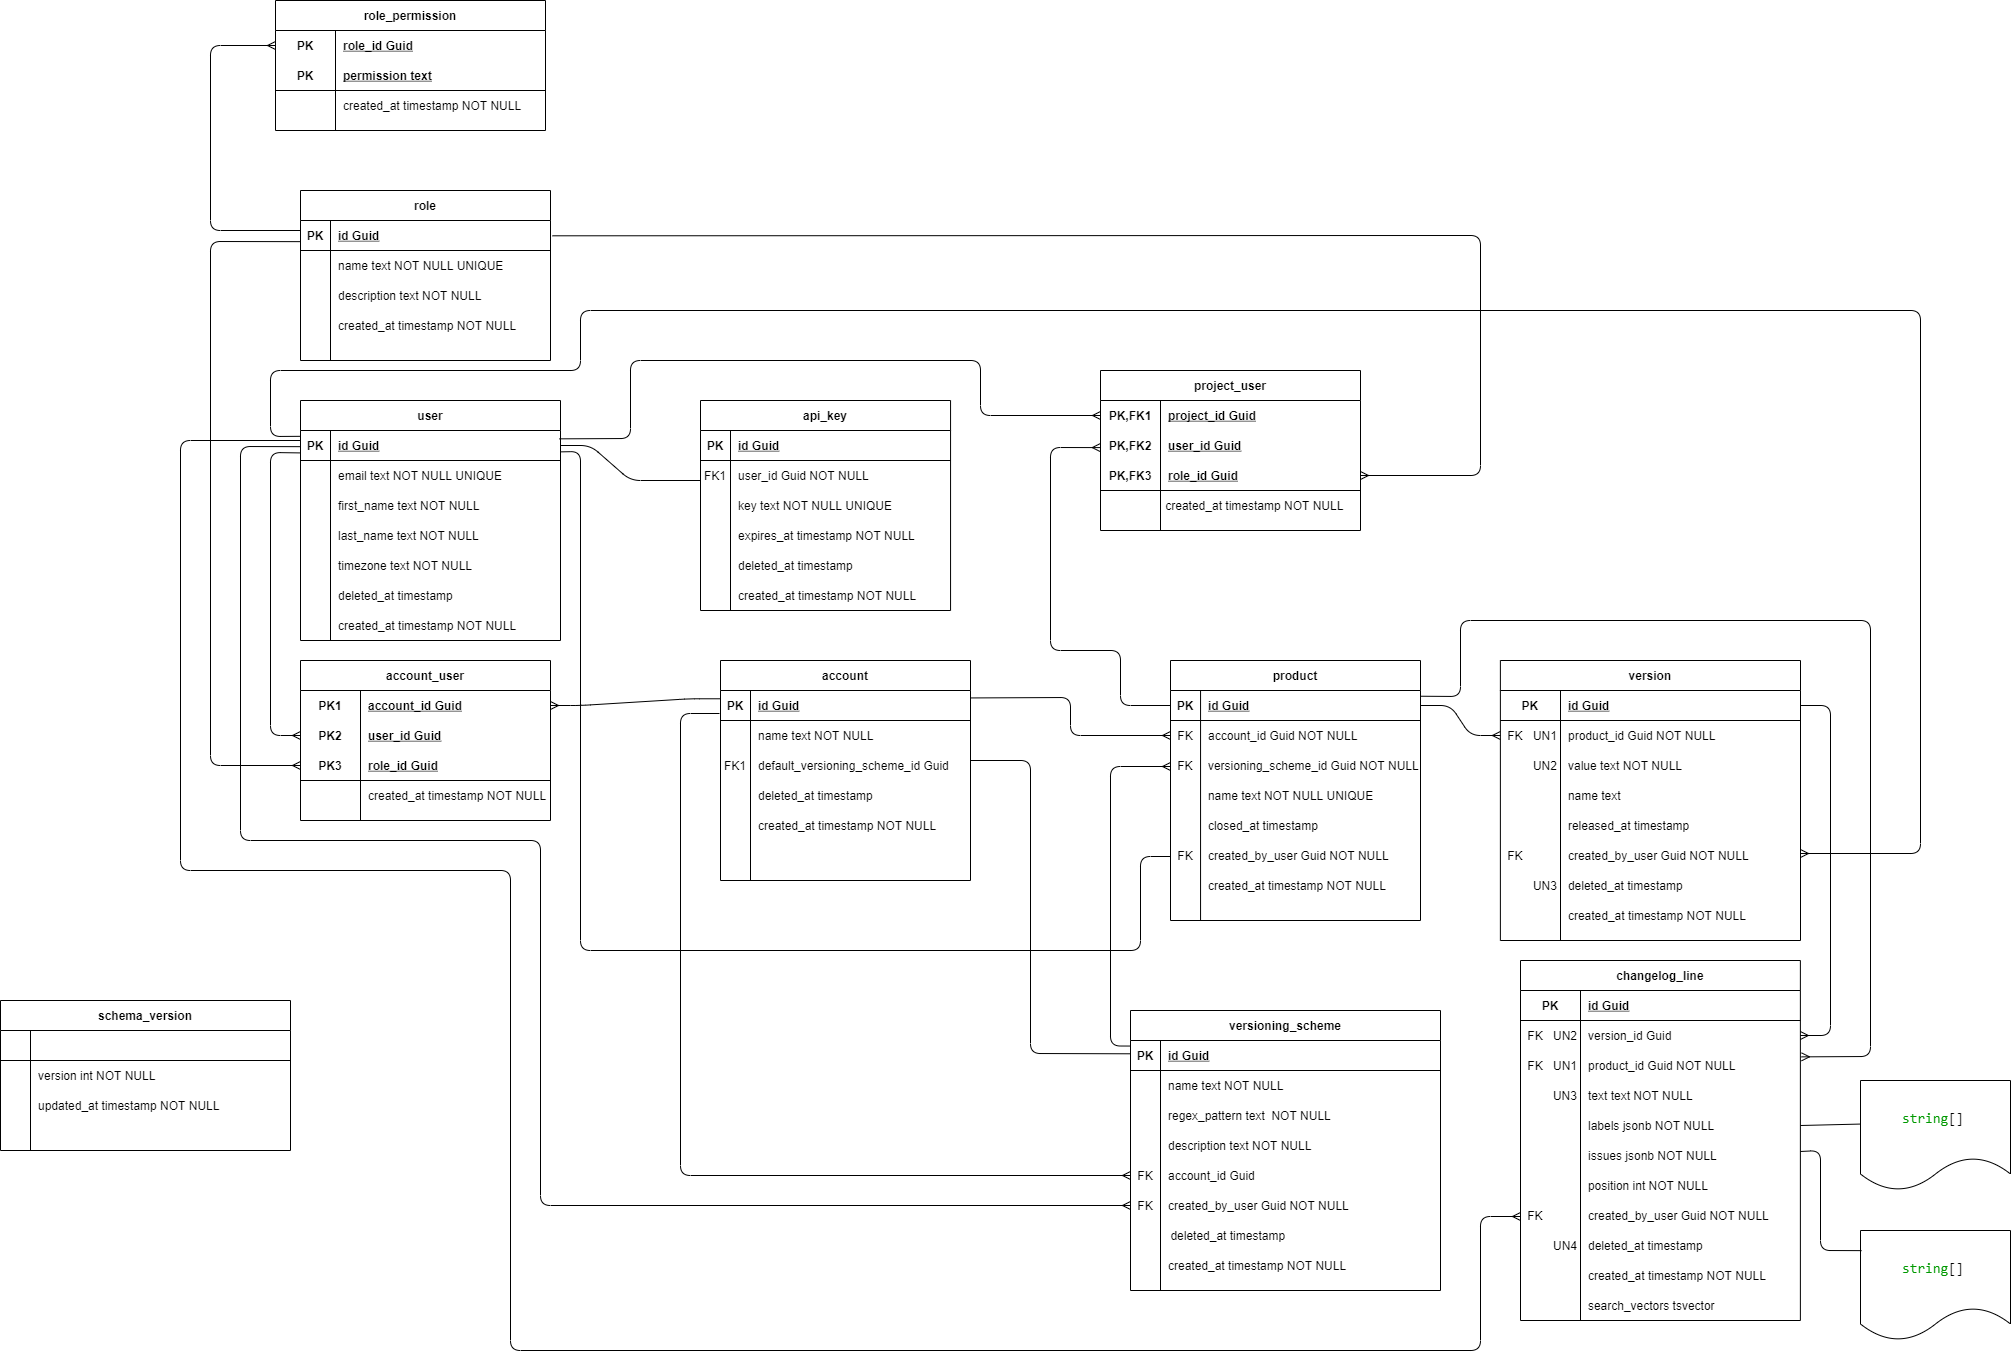
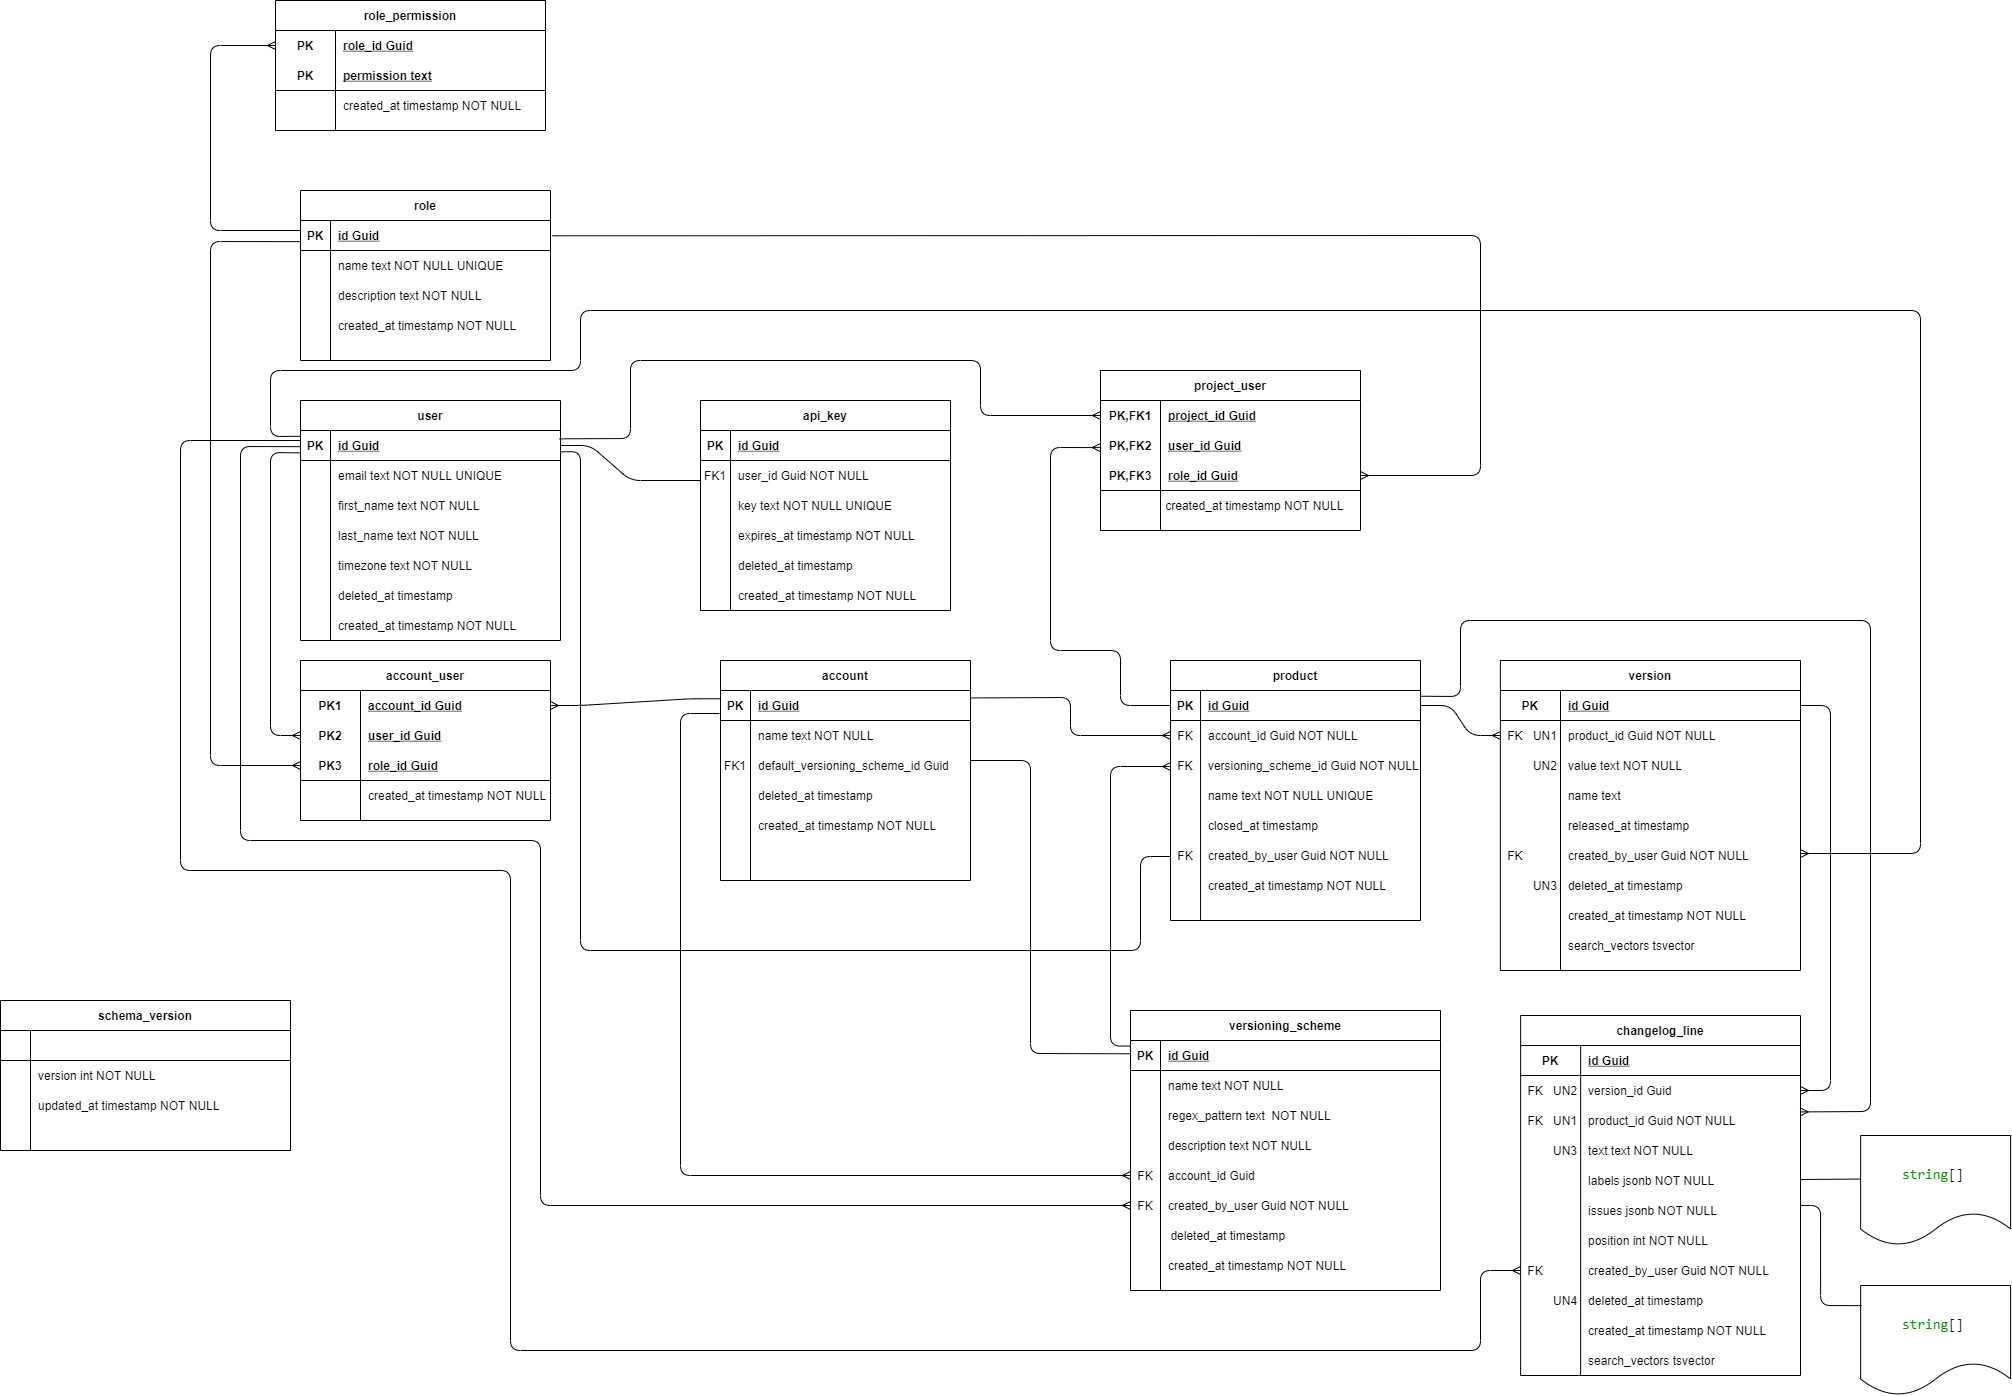
extend text search on version table

diff --git a/src/ChangeTracker.DataAccess.Postgres/DataAccessObjects/Version/SearchVersionQueryBuilder.cs b/src/ChangeTracker.DataAccess.Postgres/DataAccessObjects/Version/SearchVersionQueryBuilder.cs
@@ -6,8 +6,7 @@ namespace ChangeTracker.DataAccess.Postgres.DataAccessObjects.Version
 {
     public class SearchVersionQueryBuilder
     {
-        private readonly List<string> _versionPredicates = new();
-        private readonly List<string> _changeLogPredicates = new();
+        private readonly List<string> _predicates = new();
         private readonly Dictionary<string, object> _parameters = new();
 
         public SearchVersionQueryBuilder(Guid productId)
@@ -22,8 +21,8 @@ namespace ChangeTracker.DataAccess.Postgres.DataAccessObjects.Version
         {
             if (!lastVersionId.HasValue || lastVersionId.Value == Guid.Empty)
                 return this;
-            
-            _versionPredicates.Add("(v.created_at, v.id) < ((select vs.created_at from version vs where vs.id = @lastVersionId), @lastVersionId)");
+
+            _predicates.Add("(v.created_at, v.id) < ((select vs.created_at from version vs where vs.id = @lastVersionId), @lastVersionId)");
             _parameters.Add("lastVersionId", lastVersionId.Value);
 
             return this;
@@ -31,7 +30,7 @@ namespace ChangeTracker.DataAccess.Postgres.DataAccessObjects.Version
 
         public SearchVersionQueryBuilder ExcludeDeletedVersions()
         {
-            _versionPredicates.Add("v.deleted_at is null");
+            _predicates.Add("v.deleted_at is null");
             return this;
         }
 
@@ -41,24 +40,28 @@ namespace ChangeTracker.DataAccess.Postgres.DataAccessObjects.Version
                 return this;
 
             var trimmedSearchTerm = searchTerm.Trim();
-            if (trimmedSearchTerm.Contains(" "))
-                return this;
-            
-            _changeLogPredicates.Add("chl.search_vectors @@ to_tsquery(trim(@searchTerm))");
-            _parameters.Add("searchTerm", searchTerm);
+            var finalSearchTerm = trimmedSearchTerm.Contains(" ")
+                ? string.Join(" & ", trimmedSearchTerm.Split(" "))
+                : trimmedSearchTerm;
+
+            _predicates.Add(@"
+                  (exists(SELECT NULL
+                             FROM changelog_line chl
+                             where chl.product_id = v.product_id
+                               and chl.version_id = v.id
+                               and chl.deleted_at is null
+                               and chl.search_vectors @@ to_tsquery(trim(@searchTerm))
+                      ) or v.search_vectors @@ to_tsquery(trim(@searchTerm)))");
+            _parameters.Add("searchTerm", finalSearchTerm);
             return this;
         }
 
         public (string, IReadOnlyDictionary<string, object>) Build(ushort limit)
         {
-            var versionPredicates = _versionPredicates.Any()
-                ? $"and {string.Join(" and ", _versionPredicates)}"
+            var predicates = _predicates.Any()
+                ? $"and {string.Join(" and ", _predicates)}"
                 : string.Empty;
 
-            var changeLogLinePredicates = _changeLogPredicates.Any()
-                ? $"and {string.Join(" and ", _changeLogPredicates)}"
-                : string.Empty;
-            
             var query = $@"
                 select v.id,
                        v.product_id      as productId,
@@ -70,14 +73,7 @@ namespace ChangeTracker.DataAccess.Postgres.DataAccessObjects.Version
                        v.deleted_at      as deletedAt
                 from version v
                 where v.product_id = @productId
-                  {versionPredicates}
-                  and exists(SELECT NULL
-                             FROM changelog_line chl
-                             where chl.product_id = v.product_id
-                               and chl.version_id = v.id
-                               and chl.deleted_at is null
-                               {changeLogLinePredicates}
-                      )
+                  {predicates}
                 order by v.created_at desc
                     fetch first (@limit) rows only";
 

diff --git a/src/ChangeTracker.Api/Controllers/v1/ProductController.cs b/src/ChangeTracker.Api/Controllers/v1/ProductController.cs
@@ -86,9 +86,6 @@ namespace ChangeTracker.Api.Controllers.v1
             bool includeDeleted = false,
             ushort limit = VersionsQueryRequestModel.MaxLimit)
         {
-            if (searchTerm is not null && searchTerm.Trim().Contains(" "))
-                return BadRequest(DefaultResponse.Create("Whitespaces in search terms are not allowed."));
-
             var userId = HttpContext.GetUserId();
             var requestModel = new VersionsQueryRequestModel(productId,
                 lastVersionId,

diff --git a/src/ChangeTracker.DataAccess.Postgres/SchemaVersion.cs b/src/ChangeTracker.DataAccess.Postgres/SchemaVersion.cs
@@ -17,7 +17,7 @@ namespace ChangeTracker.DataAccess.Postgres
             _logger = logger;
         }
 
-        private static int AppSchemaVersion => 27;
+        private static int AppSchemaVersion => 31;
 
         public async Task VerifySchemaVersionAsync()
         {
